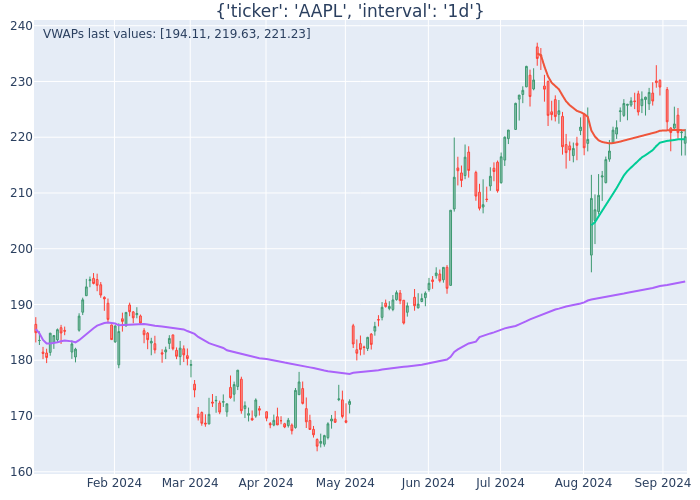
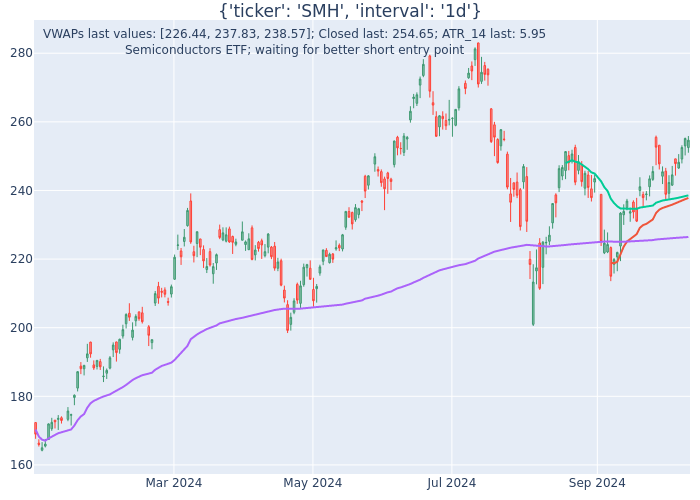
Switched from ticker_anchors to Excel file

diff --git a/draw_all_daily_charts.py b/draw_all_daily_charts.py
@@ -1,9 +1,10 @@
-from typing import Callable, List
+from typing import Callable
+
+import pandas as pd
 
 from constants import first_day_of_year
 from import_ohlc import get_ohlc_from_yf
 from misc import get_custom_chart_annotation_1d
-from ticker_anchors import ticker_anchors
 from vwaps_plot_build_save import vwaps_plot_build_save
 
 # NOTE In case of problems with Yahoo Finance,
@@ -14,29 +15,52 @@ from vwaps_plot_build_save import vwaps_plot_build_save
 
 def draw_all_daily_charts(get_ohlc_func: Callable = get_ohlc_from_yf):
     """
-    For every ticker in ticker_anchors draw and save
+    For every ticker in tickers_notes draw and save
     two daily OHLC + VWAPs charts.
     Chart 1: with year's 1st day VWAP added.
     Chart 2: without year's 1st day VWAP.
+
+    Fill the tickers_follow_daily.xlsx file with the tickers
+    you are interested in, their notes, and anchor dates.
+    You can add zero, one, or several custom anchor dates to each ticker.
+    Please note that anchor dates for the last recent low and high
+    are added automatically, i.e. you don't have to add and update them manually.
+
+    See detailed explanations in the README.md.
     """
 
-    total_count = len(ticker_anchors)
+    xls = pd.ExcelFile("tickers_follow_daily.xlsx")
+    tickers_notes = pd.read_excel(xls, "Notes")
+    tickers_anchor_dates = pd.read_excel(xls, "Anchor_Dates")
+    total_count = tickers_notes.shape[0]
     interval = "1d"
     counter = 0
-    for ticker in ticker_anchors:
+    for ticker in tickers_notes["Ticker"].values:
         counter = counter + 1
         print(
             f"draw_all_daily_charts: running {ticker=} - {counter} of {total_count}..."
         )
-        hist = get_ohlc_func(ticker=ticker, period="2y", interval=interval)
-        anchor_dates_2: List[str] = ticker_anchors[ticker]
-        # anchor_dates_2: List[str] = list()
-        anchor_dates_1 = anchor_dates_2 + [first_day_of_year]
+        ohlc_df = get_ohlc_func(ticker=ticker, period="max", interval=interval)
+
+        # adding your custom anchor dates for the ticker if they are available
+        custom_anchor_dates = list()
+        if ticker in tickers_anchor_dates.columns:
+            custom_anchor_dates = tickers_anchor_dates[ticker].values.tolist()
+        all_anchor_dates = custom_anchor_dates + [first_day_of_year]
+
+        # adding the ticker note so that it will appear in the chart annotation
+        ticker_note = tickers_notes.loc[
+            tickers_notes["Ticker"] == ticker, "Note"
+        ].values[0]
+        if ticker_note != "":
+            ohlc_df.attrs["note"] = ticker_note
+
         chart_title = {"ticker": ticker, "interval": interval}
         chart_title_str = str(chart_title)
+
         vwaps_plot_build_save(
-            input_df=hist,
-            anchor_dates=anchor_dates_1,
+            input_df=ohlc_df,
+            anchor_dates=all_anchor_dates,
             chart_annotation_func=get_custom_chart_annotation_1d,
             chart_title=chart_title_str,
             add_last_min_max=True,
@@ -44,8 +68,8 @@ def draw_all_daily_charts(get_ohlc_func: Callable = get_ohlc_from_yf):
             print_df=False,
         )
         vwaps_plot_build_save(
-            input_df=hist,
-            anchor_dates=anchor_dates_2,
+            input_df=ohlc_df,
+            anchor_dates=custom_anchor_dates,
             chart_annotation_func=get_custom_chart_annotation_1d,
             chart_title=chart_title_str,
             add_last_min_max=True,

diff --git a/vwaps_plot_build_save.py b/vwaps_plot_build_save.py
@@ -1,10 +1,11 @@
+import datetime
 from typing import Callable, List, Optional, Set, Tuple
 
 import pandas as pd
 import plotly.graph_objects as go
 
 from constants import ATR_SMOOTHING_N, DEFAULT_RESULTS_FILE
-from misc import fill_is_min_max
+from misc import fill_is_min_max, get_custom_chart_annotation_1d
 
 
 def _add_last_min_max_dates(
@@ -45,38 +46,30 @@ def _preprocess_anchor_dates(
 
     min_anchor_date = None
     for anchor_date in anchor_dates:
+        if isinstance(anchor_date, datetime.datetime):
+            continue
         if anchor_date[0] == "x":
             min_anchor_date = pd.to_datetime(anchor_date[1:])
     anchor_points = [
-        anchor_date[1:] if anchor_date[0] == "x" else anchor_date
+        anchor_date[1:]
+        if not isinstance(anchor_date, datetime.datetime) and anchor_date[0] == "x"
+        else anchor_date
         for anchor_date in anchor_dates
     ]
-    anchor_points = [pd.to_datetime(anchor_dt_str) for anchor_dt_str in anchor_points]
+    anchor_points = [
+        pd.to_datetime(anchor_date)
+        if not isinstance(anchor_date, datetime.datetime)
+        else anchor_date
+        for anchor_date in anchor_points
+    ]
     return set(anchor_points), min_anchor_date
-
-
-def get_chart_annotation(df: pd.DataFrame) -> str:
-
-    vwap_values = list()
-    vwap_columns = [column for column in df.columns if column.startswith("A_VWAP_")]
-    for vwap_column in vwap_columns:
-        vwap_values.append(round(df[vwap_column].iloc[-1], 2))
-    res_to_return = "VWAPs last values: " + str(sorted(vwap_values))
-    res_to_return = (
-        res_to_return + "; Closed last: " + str(round(df[f"Close"].values[-1], 2))
-    )
-    # NOTE You can add additional information to the annotation here,
-    # or preferably write a custom function and pass it as a chart_annotation_func parameter
-    # when calling the function vwaps_plot_build_save.
-    # See the get_custom_chart_annotation_1d function as an example.
-    return res_to_return
 
 
 def vwaps_plot_build_save(
     input_df: pd.DataFrame,
     anchor_dates: List[str],
     chart_title: str = "",
-    chart_annotation_func: Callable = get_chart_annotation,
+    chart_annotation_func: Callable = get_custom_chart_annotation_1d,
     add_last_min_max: bool = False,
     file_name: str = DEFAULT_RESULTS_FILE,
     print_df: bool = True,

diff --git a/misc/chart_annotation.py b/misc/chart_annotation.py
@@ -16,10 +16,23 @@ def get_custom_chart_annotation_1d(df: pd.DataFrame) -> str:
     res_to_return = (
         res_to_return + "; Closed last: " + str(round(df[f"Close"].values[-1], 2))
     )
+
+    # NOTE You can add additional information to the annotation here,
+    # or write your own custom function
+    # and pass it as a chart_annotation_func parameter
+    # when calling the function vwaps_plot_build_save.
+
     if f"atr_{ATR_SMOOTHING_N}" in df.columns:
         res_to_return = (
             res_to_return
             + f"; ATR_{ATR_SMOOTHING_N} last: "
             + str(df[f"atr_{ATR_SMOOTHING_N}"].values[-1])
         )
+    if (
+        hasattr(df, "attrs")
+        and "note" in df.attrs
+        and str(df.attrs["note"]) != ""
+        and str(df.attrs["note"]) != "nan"
+    ):
+        res_to_return = res_to_return + "<br>" + str(df.attrs["note"])
     return res_to_return

diff --git a/draw_daily_chart_ticker.py b/draw_daily_chart_ticker.py
@@ -14,7 +14,7 @@ def draw_daily_chart_ticker(
     ticker: str, anchor_dates: List[str], get_ohlc_func: Callable = get_ohlc_from_yf
 ):
     interval = "1d"
-    hist = get_ohlc_func(ticker=ticker, period="2y", interval=interval)
+    hist = get_ohlc_func(ticker=ticker, period="max", interval=interval)
     chart_title = {"ticker": ticker, "interval": interval}
     vwaps_plot_build_save(
         input_df=hist,

diff --git a/misc/__init__.py b/misc/__init__.py
@@ -1,3 +1,3 @@
 from .atr import add_atr_col_to_df
-from .chart_annotation_1 import get_custom_chart_annotation_1d
+from .chart_annotation import get_custom_chart_annotation_1d
 from .fill_min_max import fill_is_min_max

diff --git a/README.md b/README.md
@@ -33,7 +33,7 @@ def vwaps_plot_build_save(
 ):
 ```
 
-To plot the anchored VWAPs chart, you'll need a DataFrame that contains the following columns: `Open`, `High`, `Low`, `Close`, and `Volume`. Also, you'll have to provide a list of anchor dates. Ensure the dates in the list are in text format. The function will convert them to `pd.Timestamp` internally.
+To plot the anchored VWAPs chart, you'll need a DataFrame that contains the following columns: `Open`, `High`, `Low`, `Close`, and `Volume`. Also, you'll have to provide a list of anchor dates.
 
 ### Clearing Outdated Data from the Chart
 
@@ -51,15 +51,15 @@ You won’t need to increase the candle interval, such as switching from one min
 
 ### Adding Last Min and Max Anchored VWAPS Automatically
 
-I have found that VWAPs anchored to the dates of the last minimum and maximum are very important. They are more significant than the *Maximum Trading Gains with Anchored VWAP* book says. Therefore, the `vwaps_plot_build_save` function acquired an additional parameter `add_last_min_max`. It saves me a lot of time and effort because I no longer have to follow and update these dates in the `ticker_anchors` dict.
+I have found that VWAPs anchored to the dates of the last minimum and maximum are very important for swing trading. They are more significant than the *Maximum Trading Gains with Anchored VWAP* book says. Therefore, the `vwaps_plot_build_save` function acquired an additional parameter `add_last_min_max`. It saves me a lot of time and effort because I no longer have to follow and update these dates manually.
 
 For intraday charts, VWAPs anchored to the dates of the last minimum and maximum are of little help. They are usually redundant. When building such charts, it is better not to add them.
 
 ### Customizing Chart Title and Annotation
 
-Creating chart titles is straightforward. You can refer to the example below in the section on drawing intraday charts. Also, explore the code of the `get_chart_annotation` function to see what information is included in the default annotation. 
+Creating chart titles is straightforward. You can refer to the example below in the section on drawing intraday charts. Also, explore the code of the `get_custom_chart_annotation_1d` function to see what information is included in the default annotation. 
 
-You may want to put different data in the titles and annotations of your charts. To make the annotation more informative, consider modifying the `get_chart_annotation` function. It is even better to create one or more custom annotation functions. Refer to the `get_custom_chart_annotation_1d` function as an example. 
+You may want to put different data in the titles and annotations of your charts. To make the annotation more informative, consider modifying the `get_custom_chart_annotation_1d` function. It is even better to create one or more custom annotation functions.
 
 ## Drawing Intraday Charts
 
@@ -103,7 +103,23 @@ It's a good idea to set the `print_df` parameter to `True`. It allows you to mon
 
 ## Effortlessly Tracking Your Favorite Stocks and ETFs
 
-The `ticker_anchors.py` file contains a dictionary where you can store the tickers you're interested in, along with their anchor dates. When you run the `draw_all_daily_charts` function, it generates two updated charts for each ticker listed in the dictionary. The first chart shows anchored VWAPs starting from the dates specified in the list. The second chart includes all the data from the first chart, plus an additional anchored VWAP that starts from the `first_day_of_year`.
+The `draw_all_daily_charts` function makes it easy to build updated charts for all the tickers you're tracking. Previously, these charts primarily depended on custom anchor dates provided by the user. While the option to add custom anchor dates remains, you can now generate helpful charts without needing to specify them.
+
+Key dates include January 1 of the current year and the dates of recent significant price highs and lows. The system automatically adds VWAPs anchored to these material dates to the chart. 
+
+Below is an example of a daily OHLC chart that doesn't include any custom anchor dates but features a custom annotation.
+
+<img src="https://github.com/s-kust/anchored_vwaps/blob/main/pics/daily_chart_example_2.png" />
+
+Before running the `draw_all_daily_charts` function, enter the tickers you're interested in into the `tickers_follow_daily.xlsx` file. This file contains two worksheets. On the first worksheet, specify the tickers and any relevant notes, as shown in the image below. Adding notes is optional.
+
+<img src="https://github.com/s-kust/anchored_vwaps/blob/main/pics/tickers_follow_1_notes.png" />
+
+On the second worksheet, enter the tickers in the columns and list their custom anchor dates below them. If you place an "X" before a date, the system will use that date as the minimum threshold for the chart's X-axis.
+
+<img src="https://github.com/s-kust/anchored_vwaps/blob/main/pics/tickers_follow_2_anchors.png" />
+
+For every ticker you are interested in, you can specify one or more custom anchor dates or none at all. The charts remain highly useful even without custom dates. If you don't want to assign custom anchor dates, there is no need to enter that ticker on the second worksheet.
 
 You can modify the value of `first_day_of_year` in the `constants.py` file. It’s generally better not to set it to the first day of the current year in January. Instead, consider waiting until February or even March before updating this value.
 
